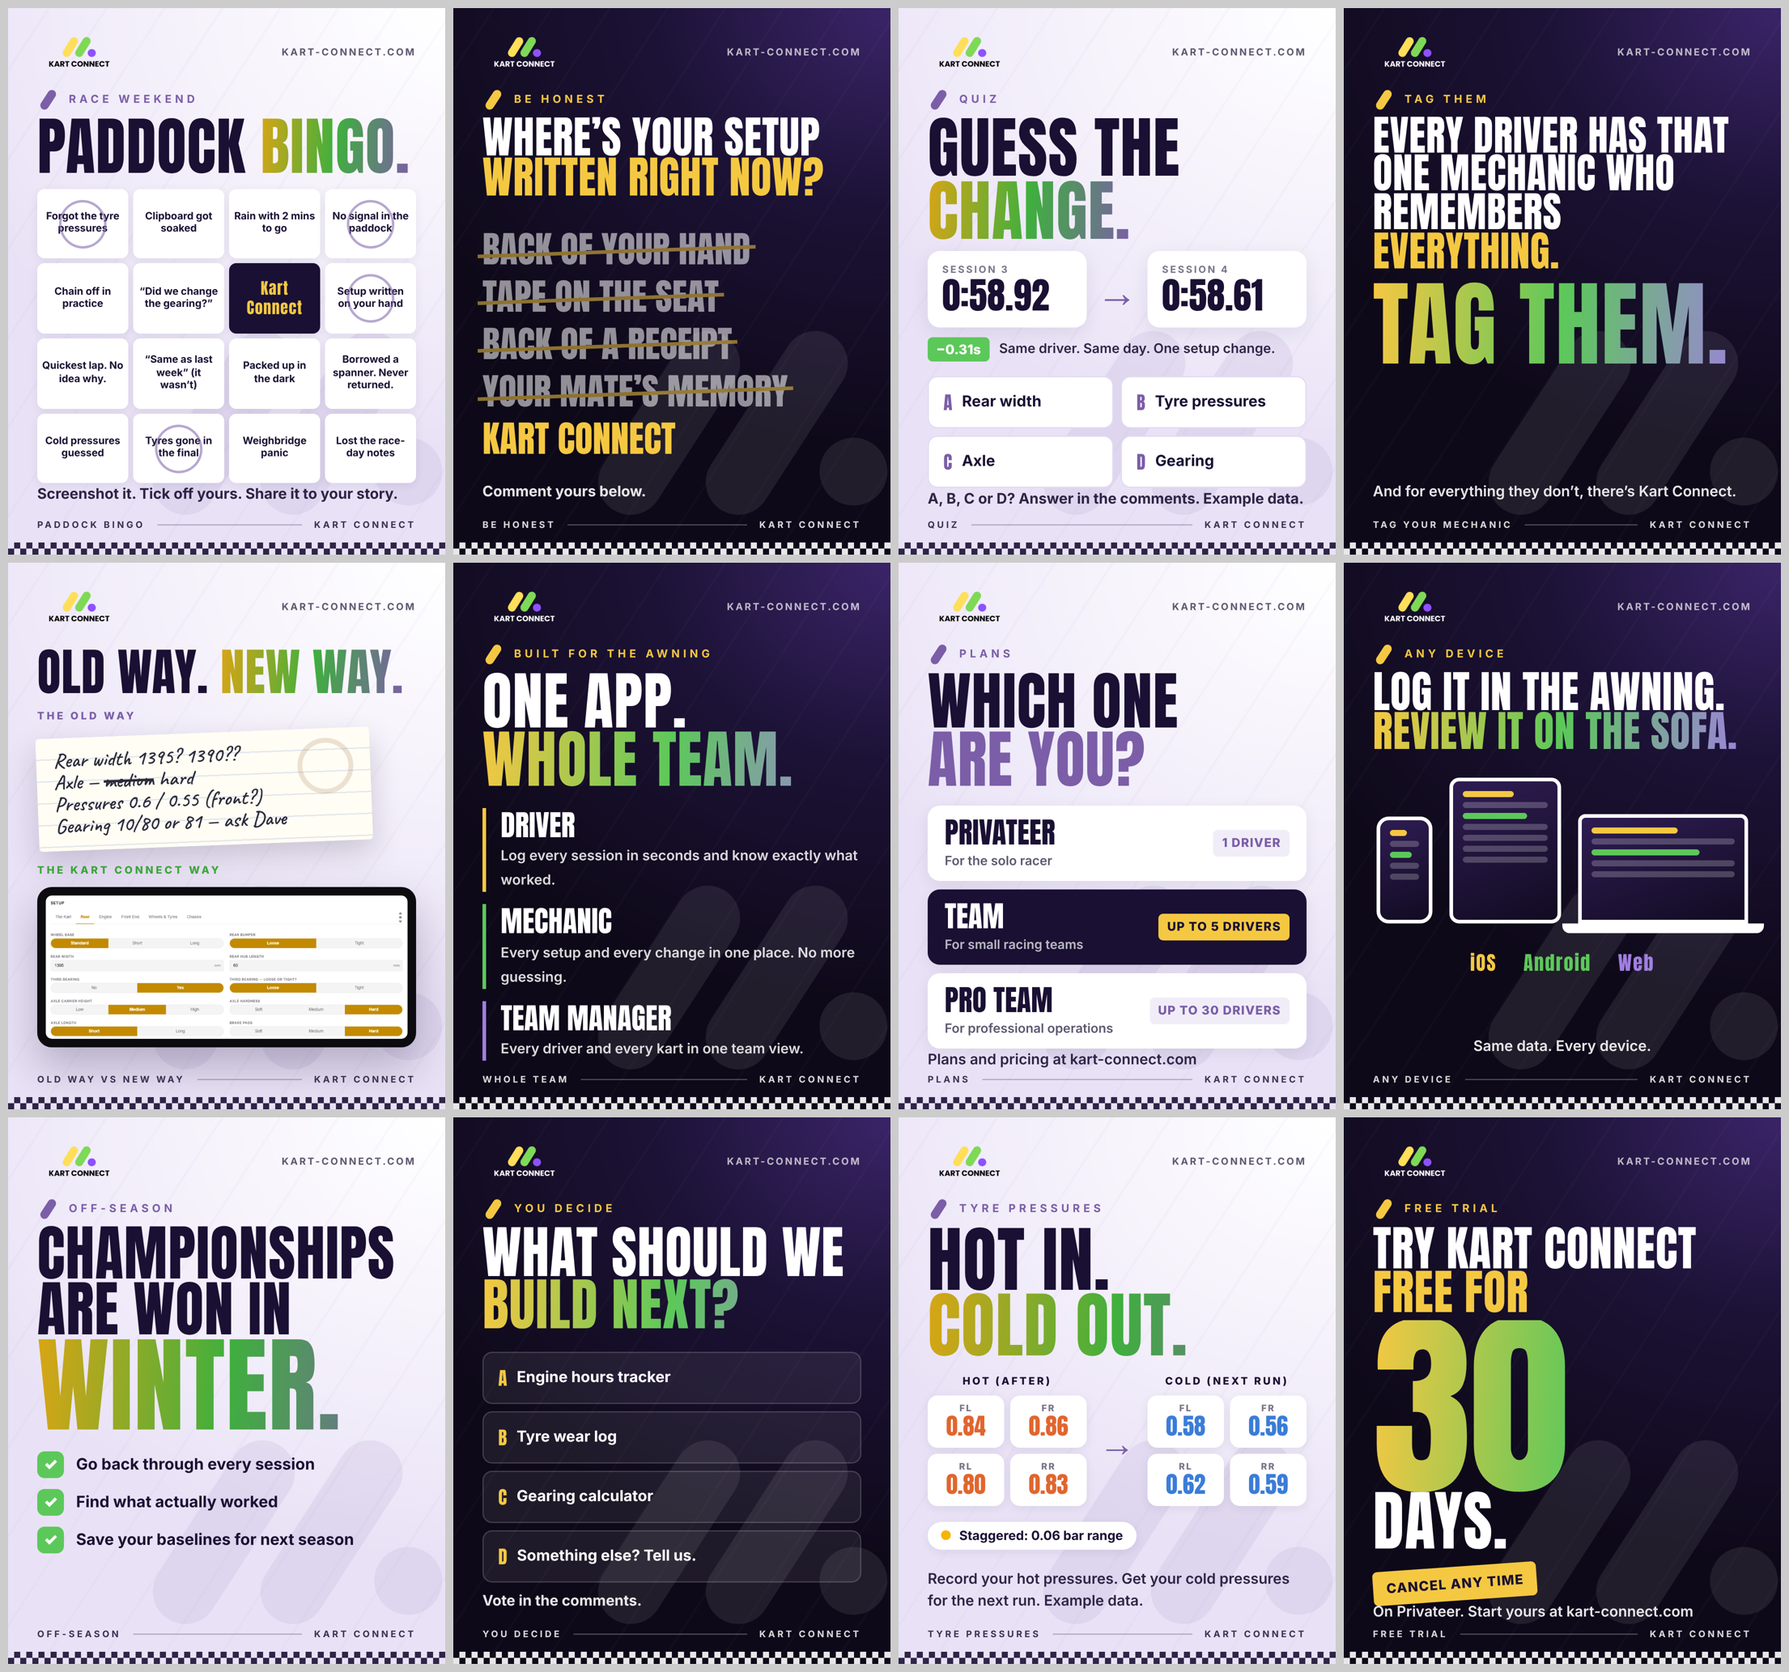
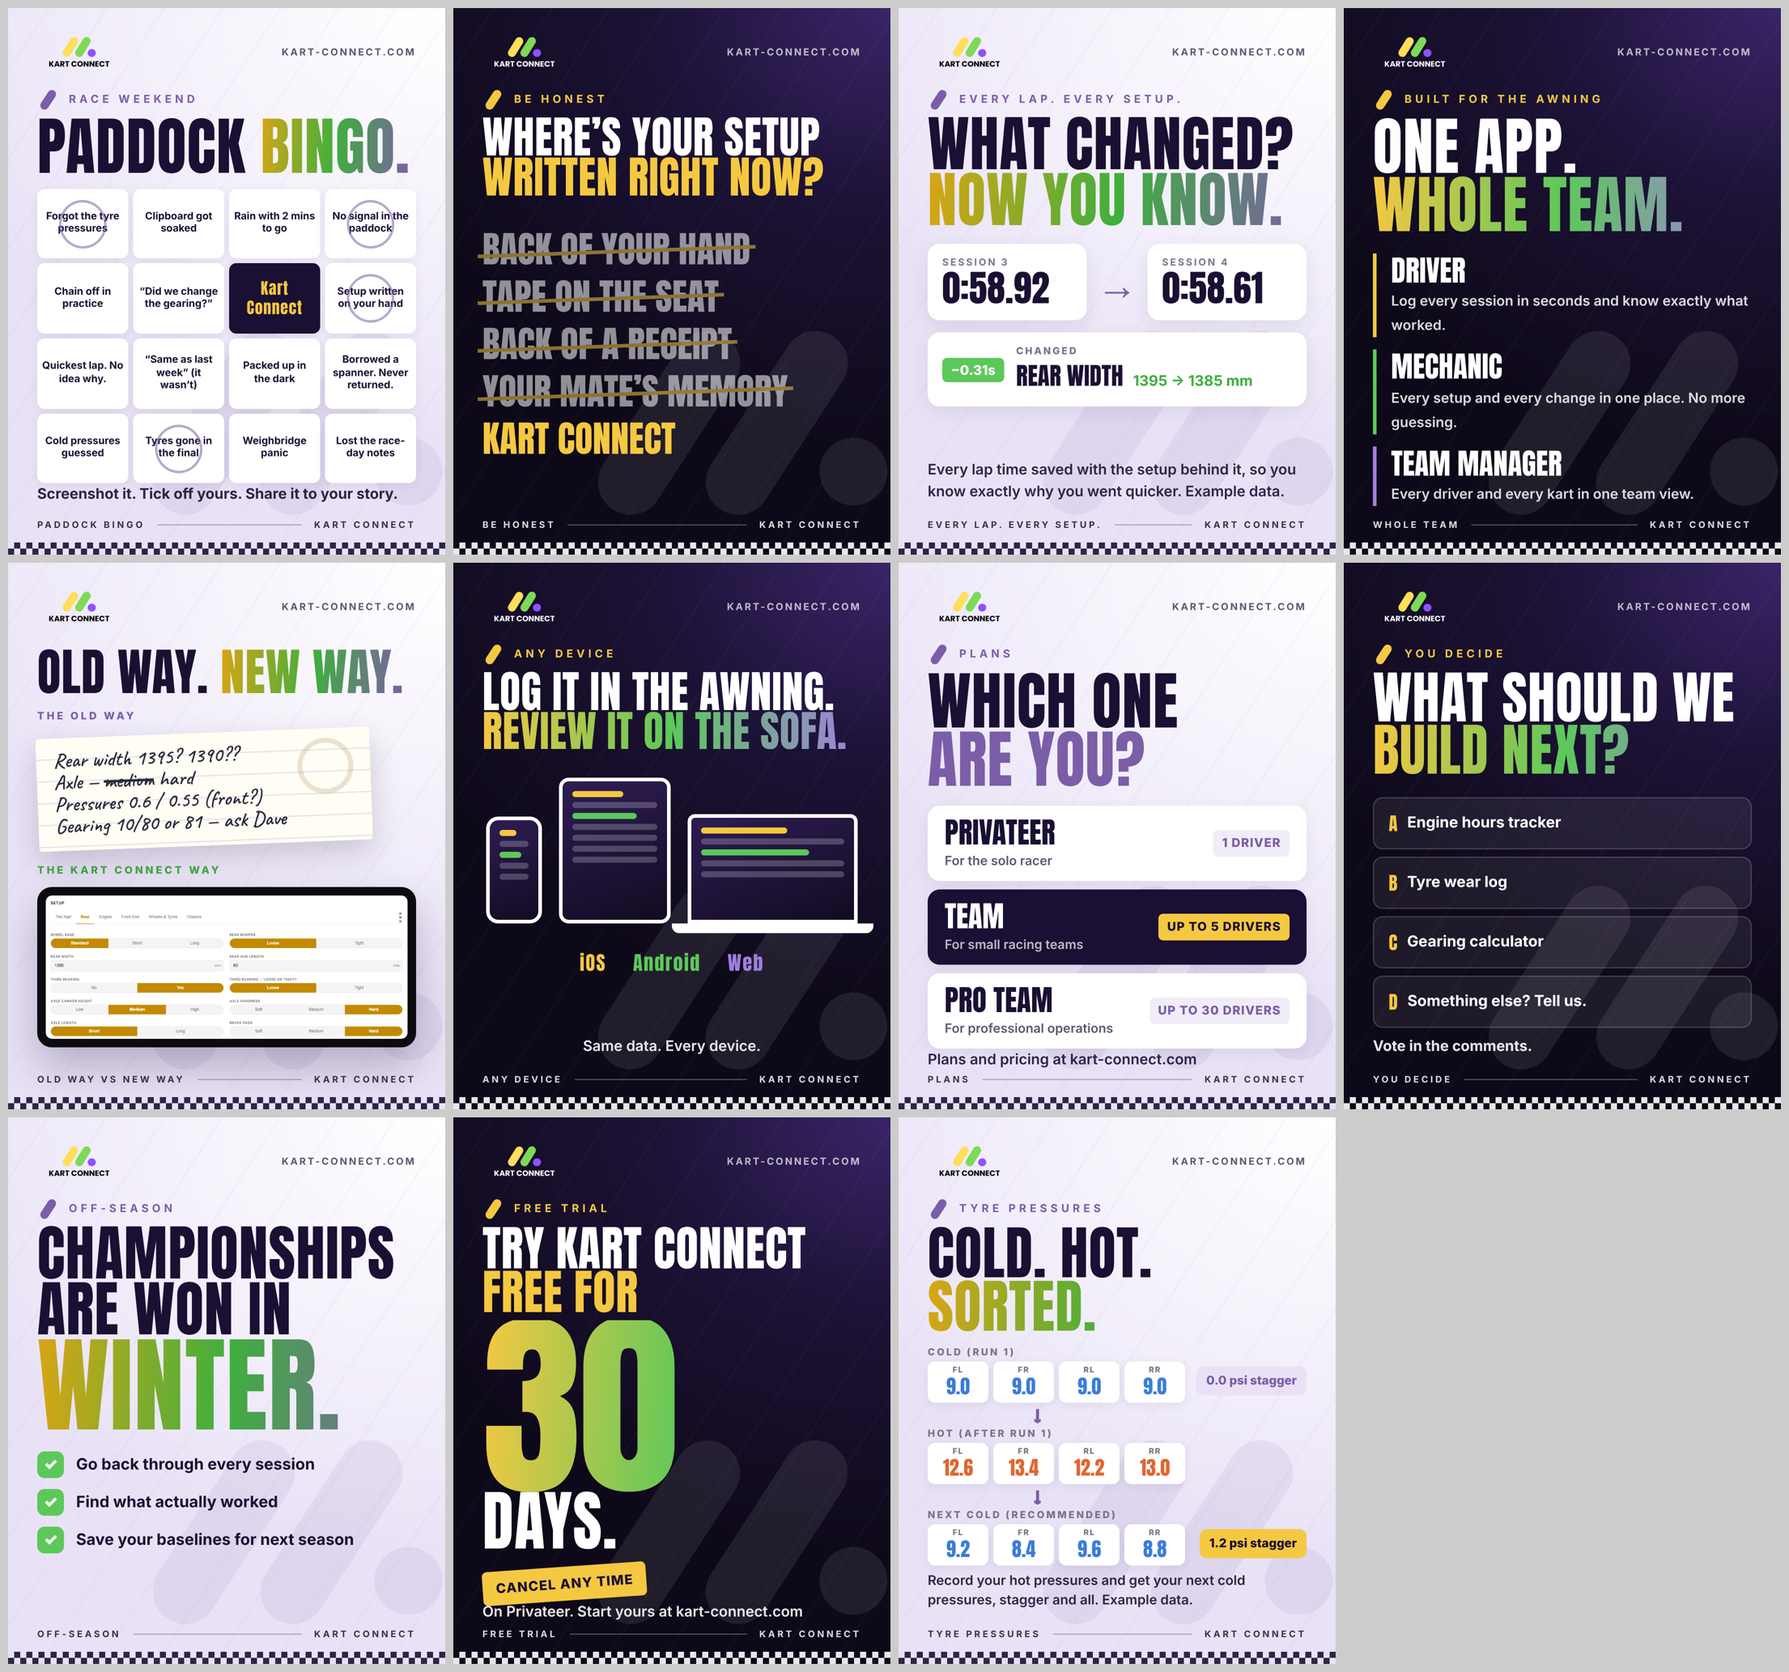
Batch 3: review changes (what changed, psi pressures, drop quiz and mechanic posts)
Claude-Session: https://claude.ai/code/session_01DzacDsEsqVP5UHhCT4aK5m

diff --git a/marketing/social/concepts/pit-board/gen5.py b/marketing/social/concepts/pit-board/gen5.py
@@ -86,6 +86,23 @@ CSS5 = g4.CSS4 + r'''
         background: linear-gradient(95deg, #F5C842 0%, #5CC85A 55%, #A07FE0 100%); -webkit-background-clip: text; background-clip: text; color: transparent; }
 '''
 
+CSS5 += r'''
+.chg { display: flex; align-items: center; gap: 10px; background: #fff; border-radius: 10px; padding: 10px 12px; box-shadow: 0 4px 16px rgba(26,16,51,.08); color: #1A1033; }
+.chg i { display: block; font-style: normal; font-size: 8px; font-weight: 800; letter-spacing: .18em; text-transform: uppercase; color: #7A7388; }
+.chg b { font-family: 'Anton'; font-weight: 400; font-size: 20px; text-transform: uppercase; margin-right: 8px; }
+.chg em { font-style: normal; font-size: 12px; font-weight: 700; color: #3FAF3D; }
+.pflow { display: flex; flex-direction: column; }
+.prow h5 { font-size: 8px; font-weight: 800; letter-spacing: .2em; text-transform: uppercase; margin-bottom: 3px; color: #7A7388; }
+.prow { position: relative; }
+.prow .pc { display: grid; grid-template-columns: repeat(4, 1fr); gap: 4px; width: 68%; }
+.prow .pc div { background: #fff; border-radius: 6px; padding: 3px 2px; text-align: center; box-shadow: 0 2px 8px rgba(26,16,51,.07); color: #1A1033; }
+.prow .pc span { display: block; font-size: 6.5px; font-weight: 800; letter-spacing: .12em; color: #7A7388; }
+.prow .pc b { font-family: 'Anton'; font-weight: 400; font-size: 16px; line-height: 1.1; }
+.prow.hot b { color: #E0662F; } .prow.cold b { color: #3B7DD8; }
+.prow .stg { position: absolute; right: 0; bottom: 6px; font-style: normal; font-size: 10px; font-weight: 800; padding: 6px 8px; border-radius: 6px; background: #F5C842; color: #1A1033; }
+.prow .stg.ok { background: #E9E2F6; color: #7B5EA7; }
+.dn { font-family: 'Anton'; font-size: 16px; color: #7B5EA7; line-height: 1; margin: 2px 0 2px 28%; }
+'''
 P = []  # (theme, slug, title, inner_html, foot, [captions A, B, C], note)
 
 bingo = ['Forgot the tyre pressures', 'Clipboard got soaked', 'Rain with 2 mins to go', 'No signal in the paddock',
@@ -111,42 +128,26 @@ P.append(('dark', 'where-written', "Where's your setup written?",
   '<div class="d" style="font-size:41px;margin-top:8px;">Where&rsquo;s your setup</div>'
   '<div class="d" style="font-size:41px;"><span class="hl">written right now?</span></div>'
   '<ul class="scr" style="margin-top:26px;"><li>Back of your hand</li><li>Tape on the seat</li><li>Back of a receipt</li>'
-  '<li>Your mate&rsquo;s memory</li><li class="ok">Kart Connect</li></ul>'
-  '<p class="sub" style="margin-top:auto;font-weight:700;">Comment yours below.</p>',
+  '<li>Your mate&rsquo;s memory</li><li class="ok">Kart Connect</li></ul>',
   'Be honest', [
-  "Be honest. Where's your setup written right now? 👀\n\nBack of your hand? Tape on the seat? A receipt from the café? Or locked away in your mate's memory, never to be seen again? 😅\n\nComment yours below 👇 The best (worst) answer gets a shoutout on our story.\n\nOr skip the scribbles. Kart Connect keeps every setup, every change and every session saved and ready, all season long. 🏁\n\n🔗 kart-connect.com\n\n#KartConnect #Karting #KartRacing #KartLife #KartSetup",
-  "Hand. Tape. Receipt. Memory. ❌\nKart Connect. ✅\n\nWhere's yours written? Comment below 👇\n\n🔗 kart-connect.com\n\n#KartConnect #Karting #KartRacing",
-  "We've seen setups written on hands, seat tape, fag packets and once on a pizza box. 🍕\n\nWhat's the strangest place you've ever written yours? Comment below 👇\n\nWhen you're ready for something that won't wash off, Kart Connect saves every setup with the session it belongs to.\n\n🔗 kart-connect.com\n\n#KartConnect #Karting #KartRacing #KartLife"],
+  "Be honest. Where's your setup written right now? 👀\n\nBack of your hand? Tape on the seat? A receipt from the café? Or locked away in your mate's memory, never to be seen again? 😅\n\nTime to skip the scribbles. Kart Connect keeps every setup, every change and every session saved and ready, all season long. 🏁\n\n🔗 kart-connect.com\n\n#KartConnect #Karting #KartRacing #KartLife #KartSetup",
+  "Hand. Tape. Receipt. Memory. ❌\nKart Connect. ✅\n\nYour setup deserves better.\n\n🔗 kart-connect.com\n\n#KartConnect #Karting #KartRacing",
+  "We've seen setups written on hands, seat tape, fag packets and once on a pizza box. 🍕\n\nWherever yours is written right now, it's time for an upgrade. When you're ready for something that won't wash off, Kart Connect saves every setup with the session it belongs to.\n\n🔗 kart-connect.com\n\n#KartConnect #Karting #KartRacing #KartLife"],
   ''))
 
-P.append(('light', 'guess-change', 'Guess the change',
-  '<div class="kick">Quiz</div>'
-  '<div class="d" style="font-size:62px;margin-top:8px;">Guess the <span class="o">change.</span></div>'
-  '<div class="lapc" style="margin-top:10px;"><div class="card"><span>Session 3</span><b>0:58.92</b></div><div class="q">&rarr;</div>'
+P.append(('light', 'what-changed', 'What changed? Now you know.',
+  '<div class="kick">Every lap. Every setup.</div>'
+  '<div class="d" style="font-size:56px;margin-top:8px;">What changed?</div>'
+  '<div class="d o" style="font-size:56px;">Now you know.</div>'
+  '<div class="lapc" style="margin-top:14px;"><div class="card"><span>Session 3</span><b>0:58.92</b></div><div class="q">&rarr;</div>'
   '<div class="card"><span>Session 4</span><b>0:58.61</b></div></div>'
-  '<div style="margin-top:8px;display:flex;align-items:center;gap:8px;"><span class="delta">&minus;0.31s</span>'
-  '<span class="sub" style="font-size:11px;">Same driver. Same day. One setup change.</span></div>'
-  '<div class="opts" style="margin-top:12px;"><div><b>A</b>Rear width</div><div><b>B</b>Tyre pressures</div>'
-  '<div><b>C</b>Axle</div><div><b>D</b>Gearing</div></div>'
-  '<p class="sub" style="margin-top:auto;font-weight:700;">A, B, C or D? Answer in the comments. Example data.</p>',
-  'Quiz', [
-  "GUESS THE CHANGE 🤔\n\nSame driver. Same day. Session 3 to Session 4. ONE setup change and 0.31s found.\n\nWhat was it?\nA) Rear width\nB) Tyre pressures\nC) Axle\nD) Gearing\n\nDrop your answer in the comments 👇 We'll reveal it on our story tomorrow.\n\nWith Kart Connect, every lap time has its setup saved right next to it, so you never have to guess what changed. 🏁\n\n🔗 kart-connect.com\n\n#KartConnect #Karting #KartRacing #KartSetup #KartQuiz",
-  "One change. 0.31s quicker. ⏱\n\nA, B, C or D? Comment below 👇 Answer on our story tomorrow.\n\n🔗 kart-connect.com\n\n#KartConnect #Karting #KartRacing #KartQuiz",
-  "Think you can read a setup sheet? Let's find out. 🧠\n\nSession 3: 0:58.92\nSession 4: 0:58.61\nOne change in between.\n\nRear width, tyre pressures, axle or gearing? Comment your answer 👇\n\nIn Kart Connect, you'd just open both sessions and see it straight away. 😉\n\n🔗 kart-connect.com\n\n#KartConnect #Karting #KartRacing #KartSetup"],
-  'Pick the real answer before posting and reveal it on your story the next day. The lap times are example data.'))
-
-P.append(('dark', 'tag-mechanic', 'Tag your mechanic',
-  '<div class="kick">Tag them</div>'
-  '<div class="d" style="font-size:38px;margin-top:8px;">Every driver has that</div>'
-  '<div class="d" style="font-size:38px;">one mechanic who</div>'
-  '<div class="d" style="font-size:38px;">remembers <span class="hl">everything.</span></div>'
-  '<div class="d o" style="font-size:86px;margin-top:10px;">Tag them.</div>'
-  '<p class="sub" style="margin-top:auto;">And for everything they don&rsquo;t, there&rsquo;s Kart Connect.</p>',
-  'Tag your mechanic', [
-  "Every driver has that ONE mechanic. 🔧\n\nThe one who remembers the gearing from three rounds ago. The one who knows the pressures before you ask. The one who's quietly saved your weekend more times than you can count.\n\nTag them below 👇 and show them some love. ❤\n\nAnd for the days even they can't remember? That's what Kart Connect is for. 🏁\n\n🔗 kart-connect.com\n\n#KartConnect #Karting #KartRacing #KartMechanic #KartLife",
-  "Tag the mechanic who remembers EVERYTHING. 👇🔧\n\n🔗 kart-connect.com\n\n#KartConnect #Karting #KartRacing #KartMechanic",
-  "Mechanics: the real MVPs of the paddock. 🏆\n\nTag yours below and tell them they're appreciated 👇\n\nThen give them a break. Kart Connect saves every setup and every change, so nothing relies on one person's memory. 😉\n\n🔗 kart-connect.com\n\n#KartConnect #Karting #KartRacing #KartMechanic #KartTeam"],
-  ''))
+  '<div class="chg" style="margin-top:10px;"><span class="delta">&minus;0.31s</span><div><i>Changed</i><b>Rear width</b><em>1395 &rarr; 1385 mm</em></div></div>'
+  '<p class="sub" style="margin-top:auto;">Every lap time saved with the setup behind it, so you know exactly why you went quicker. Example data.</p>',
+  'Every lap. Every setup.', [
+  "What changed? Now you KNOW. 🏁\n\nYou found 0.31s between sessions. Was it the rear width? The pressures? The gearing? Without the data, it's a guess.\n\nWith Kart Connect, every lap time is saved with the exact setup behind it. Open the two sessions and see exactly what changed, and exactly why you went quicker. ⏱\n\nNo more guessing. Just faster.\n\n🔗 kart-connect.com\n\n#KartConnect #Karting #KartRacing #KartSetup #KartData",
+  "0.31s quicker. And you know exactly why. ⏱\n\nEvery lap. Every setup. Kart Connect.\n\n🔗 kart-connect.com\n\n#KartConnect #Karting #KartRacing #KartSetup",
+  "Ever gone quicker and had NO idea why? 🤷\n\nThat speed is useless if you can't find it again. Kart Connect saves the setup behind every lap time, so when it clicks you know exactly what changed and you can go straight back to it.\n\nFind it. Keep it. Build on it. 🏎\n\n🔗 kart-connect.com\n\n#KartConnect #Karting #KartRacing #KartData"],
+  'The lap times and the rear width change are example data.'))
 
 P.append(('light', 'old-vs-new', 'The old way vs the new way',
   '<div class="d" style="font-size:46px;">Old way. <span class="o">New way.</span></div>'
@@ -230,24 +231,19 @@ P.append(('dark', 'build-next', 'What should we build next?',
   "YOU decide what we build next. 🛠\n\nKart Connect is built for the paddock, so we want the paddock to choose.\n\nA) Engine hours tracker\nB) Tyre wear log\nC) Gearing calculator\nD) Something else? Tell us!\n\nVote in the comments 👇 The most popular idea goes to the top of our list.\n\n🔗 kart-connect.com\n\n#KartConnect #Karting #KartRacing #KartLife",
   "What should we build next? 🤔\n\nA, B, C or D? Vote below 👇\n\n🔗 kart-connect.com\n\n#KartConnect #Karting #KartRacing",
   "If you could add ONE feature to Kart Connect, what would it be? 💭\n\nWe've given you a few ideas, but we'd love to hear yours. Every comment gets read by the team. 👇\n\n🔗 kart-connect.com\n\n#KartConnect #Karting #KartRacing #KartTech"],
-  'Swap the four options for the features you are really considering, and drop any that already exist in the app.'))
+  'Waiting on your four options. The ones shown are placeholders.'))
 
-P.append(('light', 'hot-cold', 'Hot in. Cold out.',
+P.append(('light', 'hot-cold', 'Cold. Hot. Sorted.',
   '<div class="kick">Tyre pressures</div>'
-  '<div class="d" style="font-size:66px;margin-top:8px;">Hot in.</div>'
-  '<div class="d o" style="font-size:66px;">Cold out.</div>'
-  '<div class="tyres" style="margin-top:16px;">'
-  '<div class="g hot"><h5>Hot (after)</h5><div><span>FL</span><b>0.84</b></div><div><span>FR</span><b>0.86</b></div>'
-  '<div><span>RL</span><b>0.80</b></div><div><span>RR</span><b>0.83</b></div></div><div class="ar">&rarr;</div>'
-  '<div class="g cold"><h5>Cold (next run)</h5><div><span>FL</span><b>0.58</b></div><div><span>FR</span><b>0.56</b></div>'
-  '<div><span>RL</span><b>0.62</b></div><div><span>RR</span><b>0.59</b></div></div></div>'
-  '<div style="margin-top:12px;"><span class="warn">Staggered: 0.06 bar range</span></div>'
-  '<p class="sub" style="margin-top:auto;">Record your hot pressures. Get your cold pressures for the next run. Example data.</p>',
+  '<div class="d" style="font-size:54px;margin-top:8px;">Cold. Hot.</div>'
+  '<div class="d o" style="font-size:54px;">Sorted.</div>'
+  '<div class="pflow" style="margin-top:12px;"><div class="prow cold"><h5>Cold (run 1)</h5><div class="pc"><div><span>FL</span><b>9.0</b></div><div><span>FR</span><b>9.0</b></div><div><span>RL</span><b>9.0</b></div><div><span>RR</span><b>9.0</b></div></div><em class="stg ok">0.0 psi stagger</em></div><div class="dn">&darr;</div><div class="prow hot"><h5>Hot (after run 1)</h5><div class="pc"><div><span>FL</span><b>12.6</b></div><div><span>FR</span><b>13.4</b></div><div><span>RL</span><b>12.2</b></div><div><span>RR</span><b>13.0</b></div></div></div><div class="dn">&darr;</div><div class="prow cold"><h5>Next cold (recommended)</h5><div class="pc"><div><span>FL</span><b>9.2</b></div><div><span>FR</span><b>8.4</b></div><div><span>RL</span><b>9.6</b></div><div><span>RR</span><b>8.8</b></div></div><em class="stg">1.2 psi stagger</em></div></div>'
+  '<p class="sub" style="margin-top:auto;font-size:11px;">Record your hot pressures and get your next cold pressures, stagger and all. Example data.</p>',
   'Tyre pressures', [
-  "Hot in. Cold out. 🔥➡❄\n\nCome off track, record your hot pressures and Kart Connect recommends your cold pressures for the next run.\n\nIt even flags when your pressures are staggered across the four corners, so you can sort it before the next session, not after. 🏁\n\n🔗 kart-connect.com\n\n#KartConnect #Karting #KartRacing #KartSetup #TyrePressures",
-  "Record your hot pressures. Get your cold pressures. 🔥❄\n\nThat's it.\n\n🔗 kart-connect.com\n\n#KartConnect #Karting #KartSetup",
-  "Still doing tyre pressure maths on the back of a glove? 🧮\n\nPut your hot pressures into Kart Connect after the session and it recommends your cold pressures for the next run, and warns you when they're staggered.\n\nLess maths. More grip. 🏎\n\n🔗 kart-connect.com\n\n#KartConnect #Karting #KartRacing #TyrePressures"],
-  'Based on the hot pressures and cold recommendation feature in the app code (2 Oct). Check it works this way in the current app. The numbers are example data.'))
+  "Cold. Hot. Sorted. 🔥❄\n\nStart square at 9.0 psi all round. Come in, record your hot pressures, and Kart Connect works out your cold pressures for the next run, stagger included. 🏁\n\nRun 1: 0.0 psi stagger.\nNext run: 1.2 psi stagger, set up to even out the hots.\n\nNo calculator. No guesswork. Just the right pressures, every run.\n\n🔗 kart-connect.com\n\n#KartConnect #Karting #KartRacing #KartSetup #TyrePressures",
+  "Hot pressures in. Next cold pressures out. Stagger sorted. 🔥➡❄\n\n🔗 kart-connect.com\n\n#KartConnect #Karting #KartSetup #TyrePressures",
+  "Still doing tyre pressure maths on the back of a glove? 🧮\n\nPut your hot pressures into Kart Connect after the session and it recommends your cold pressures for the next run, showing you exactly how much stagger you need across the four corners.\n\nLess maths. More grip. 🏎\n\n🔗 kart-connect.com\n\n#KartConnect #Karting #KartRacing #TyrePressures"],
+  'Example psi figures. Check the recommendation in the current app matches how this post describes it.'))
 
 P.append(('dark', 'free-trial', 'Try it free for 30 days',
   '<div class="kick">Free trial</div>'
@@ -261,6 +257,11 @@ P.append(('dark', 'free-trial', 'Try it free for 30 days',
   "30 days. Free. Cancel any time. 🏁\n\nStart your Kart Connect trial today.\n\n🔗 kart-connect.com\n\n#KartConnect #Karting #KartRacing",
   "Not sure if Kart Connect is for you? Try it for a month. 👀\n\n30 days free on Privateer. Log a couple of race weekends and see the difference for yourself.\n\nTag a mate who should try it too 👇\n\n🔗 kart-connect.com\n\n#KartConnect #Karting #KartRacing #FreeTrial"],
   'The 30-day Privateer trial comes from the app code (2 Oct). Check it is still on offer before posting.'))
+
+ORDER = ['paddock-bingo', 'where-written', 'what-changed', 'whole-team', 'old-vs-new', 'any-device', 'which-plan',
+         'build-next', 'won-in-winter', 'free-trial', 'hot-cold']
+P.sort(key=lambda p: ORDER.index(p[1]))
+P = [(('light', 'dark')[i % 2],) + p[1:] for i, p in enumerate(P)]
 
 
 def shrink(h):
